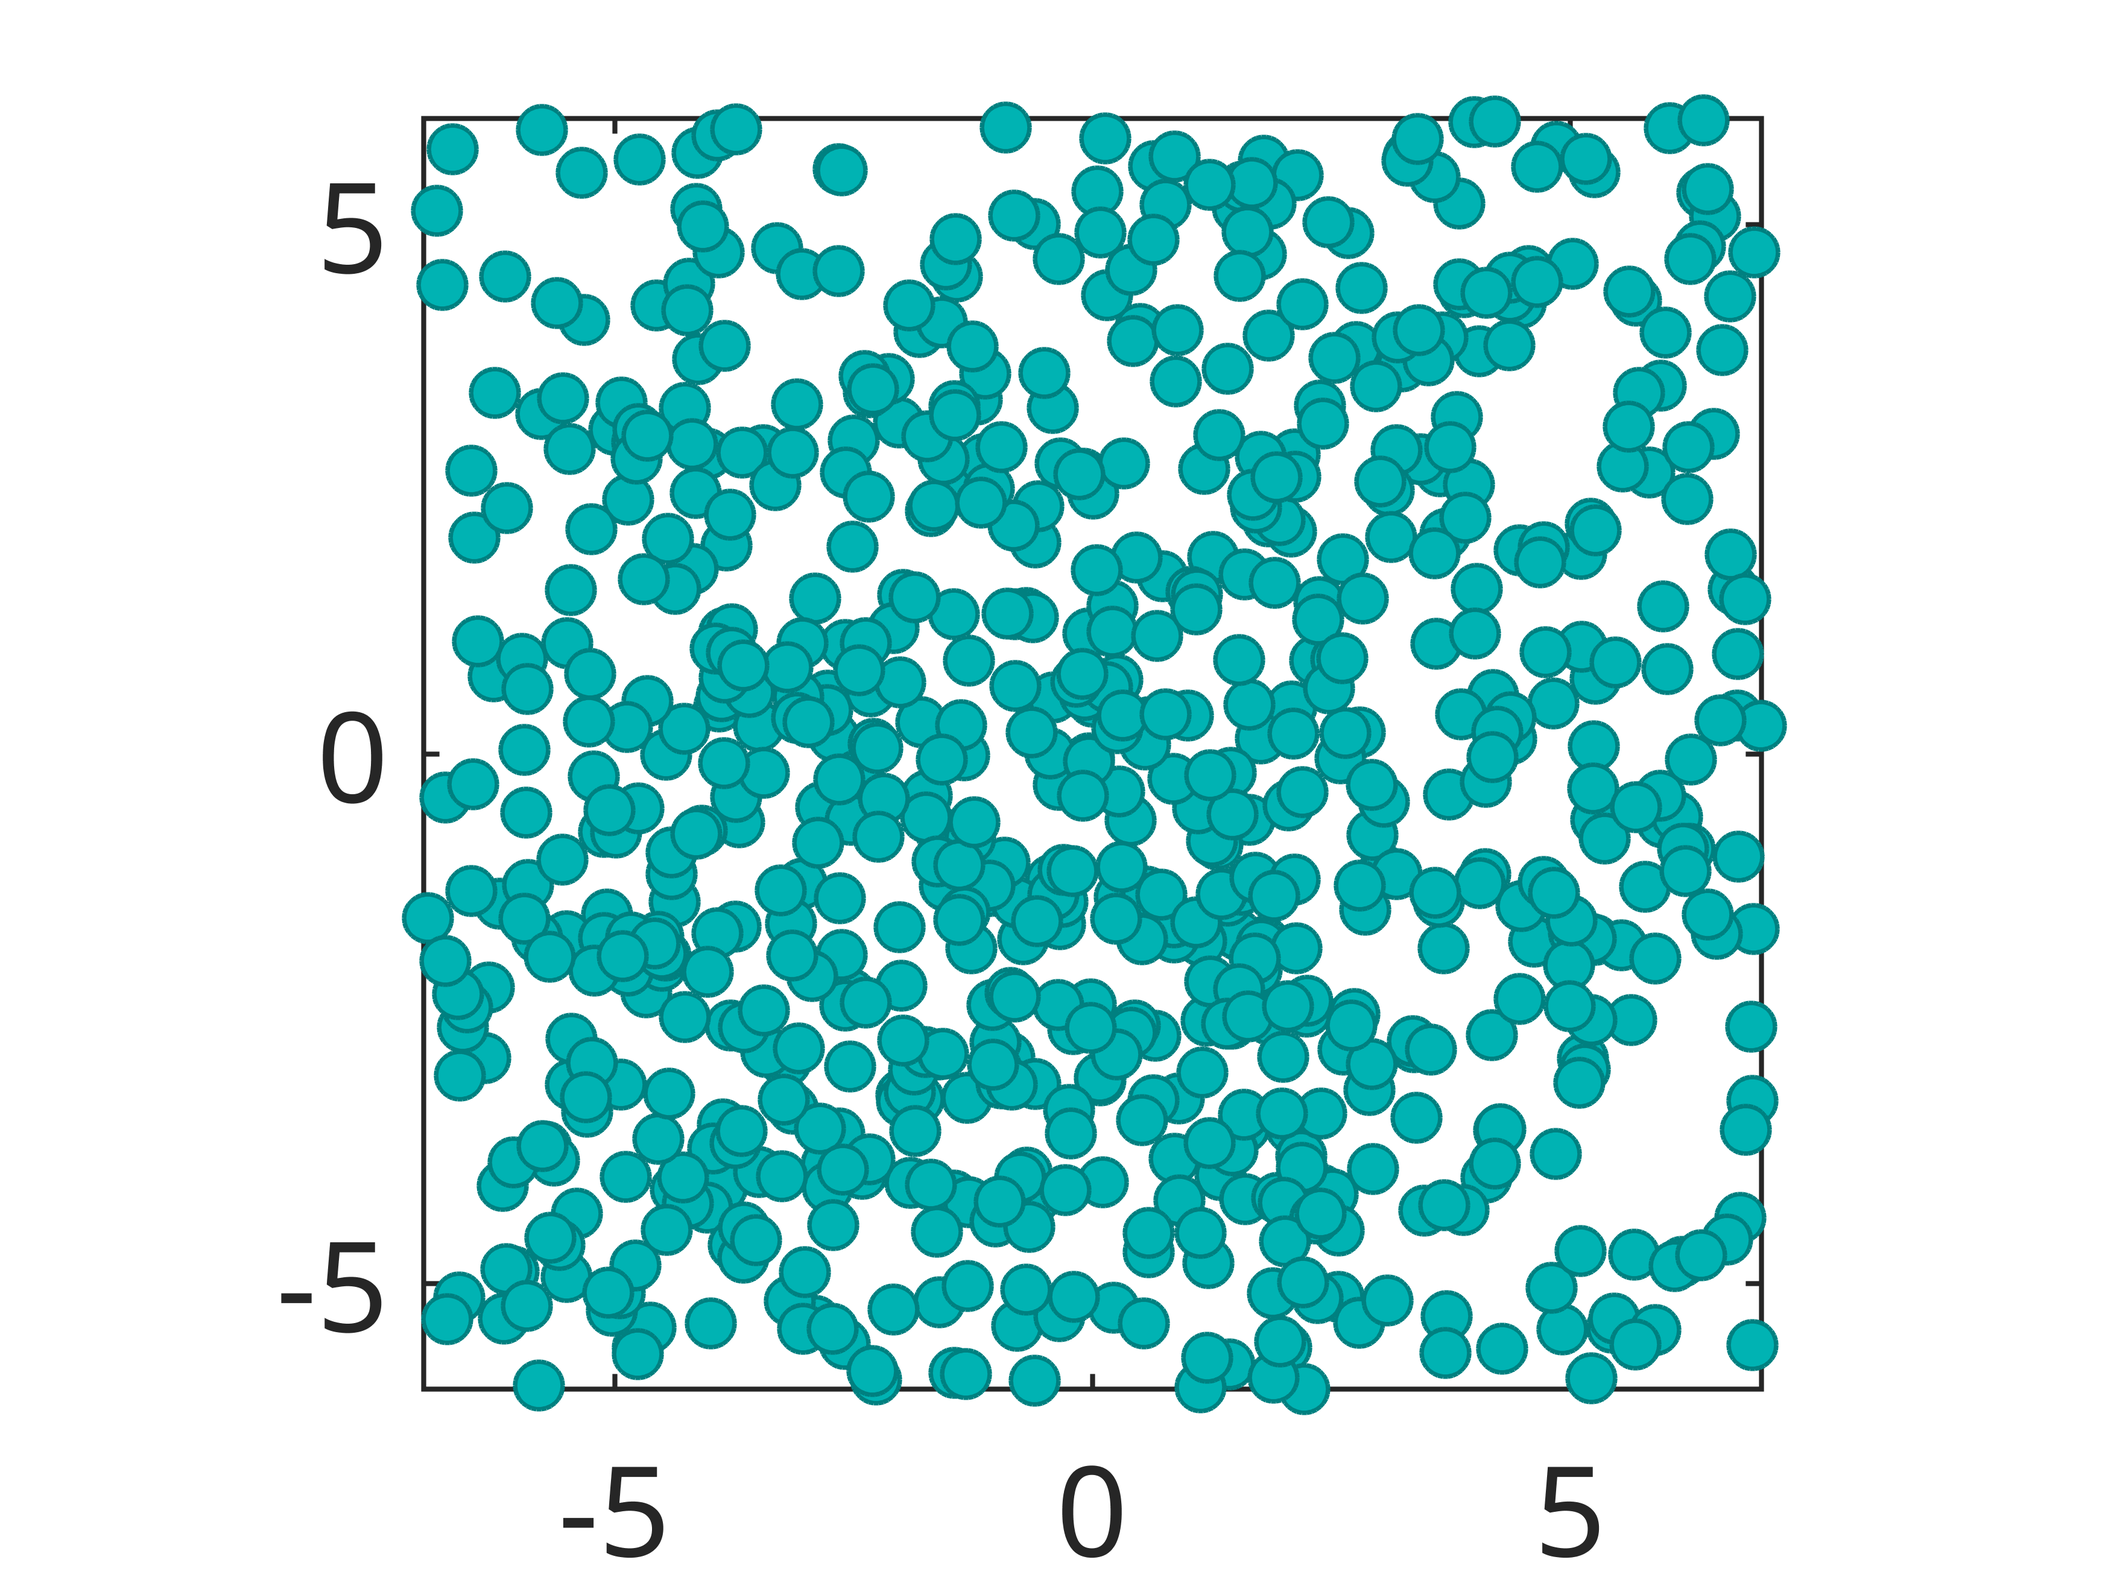
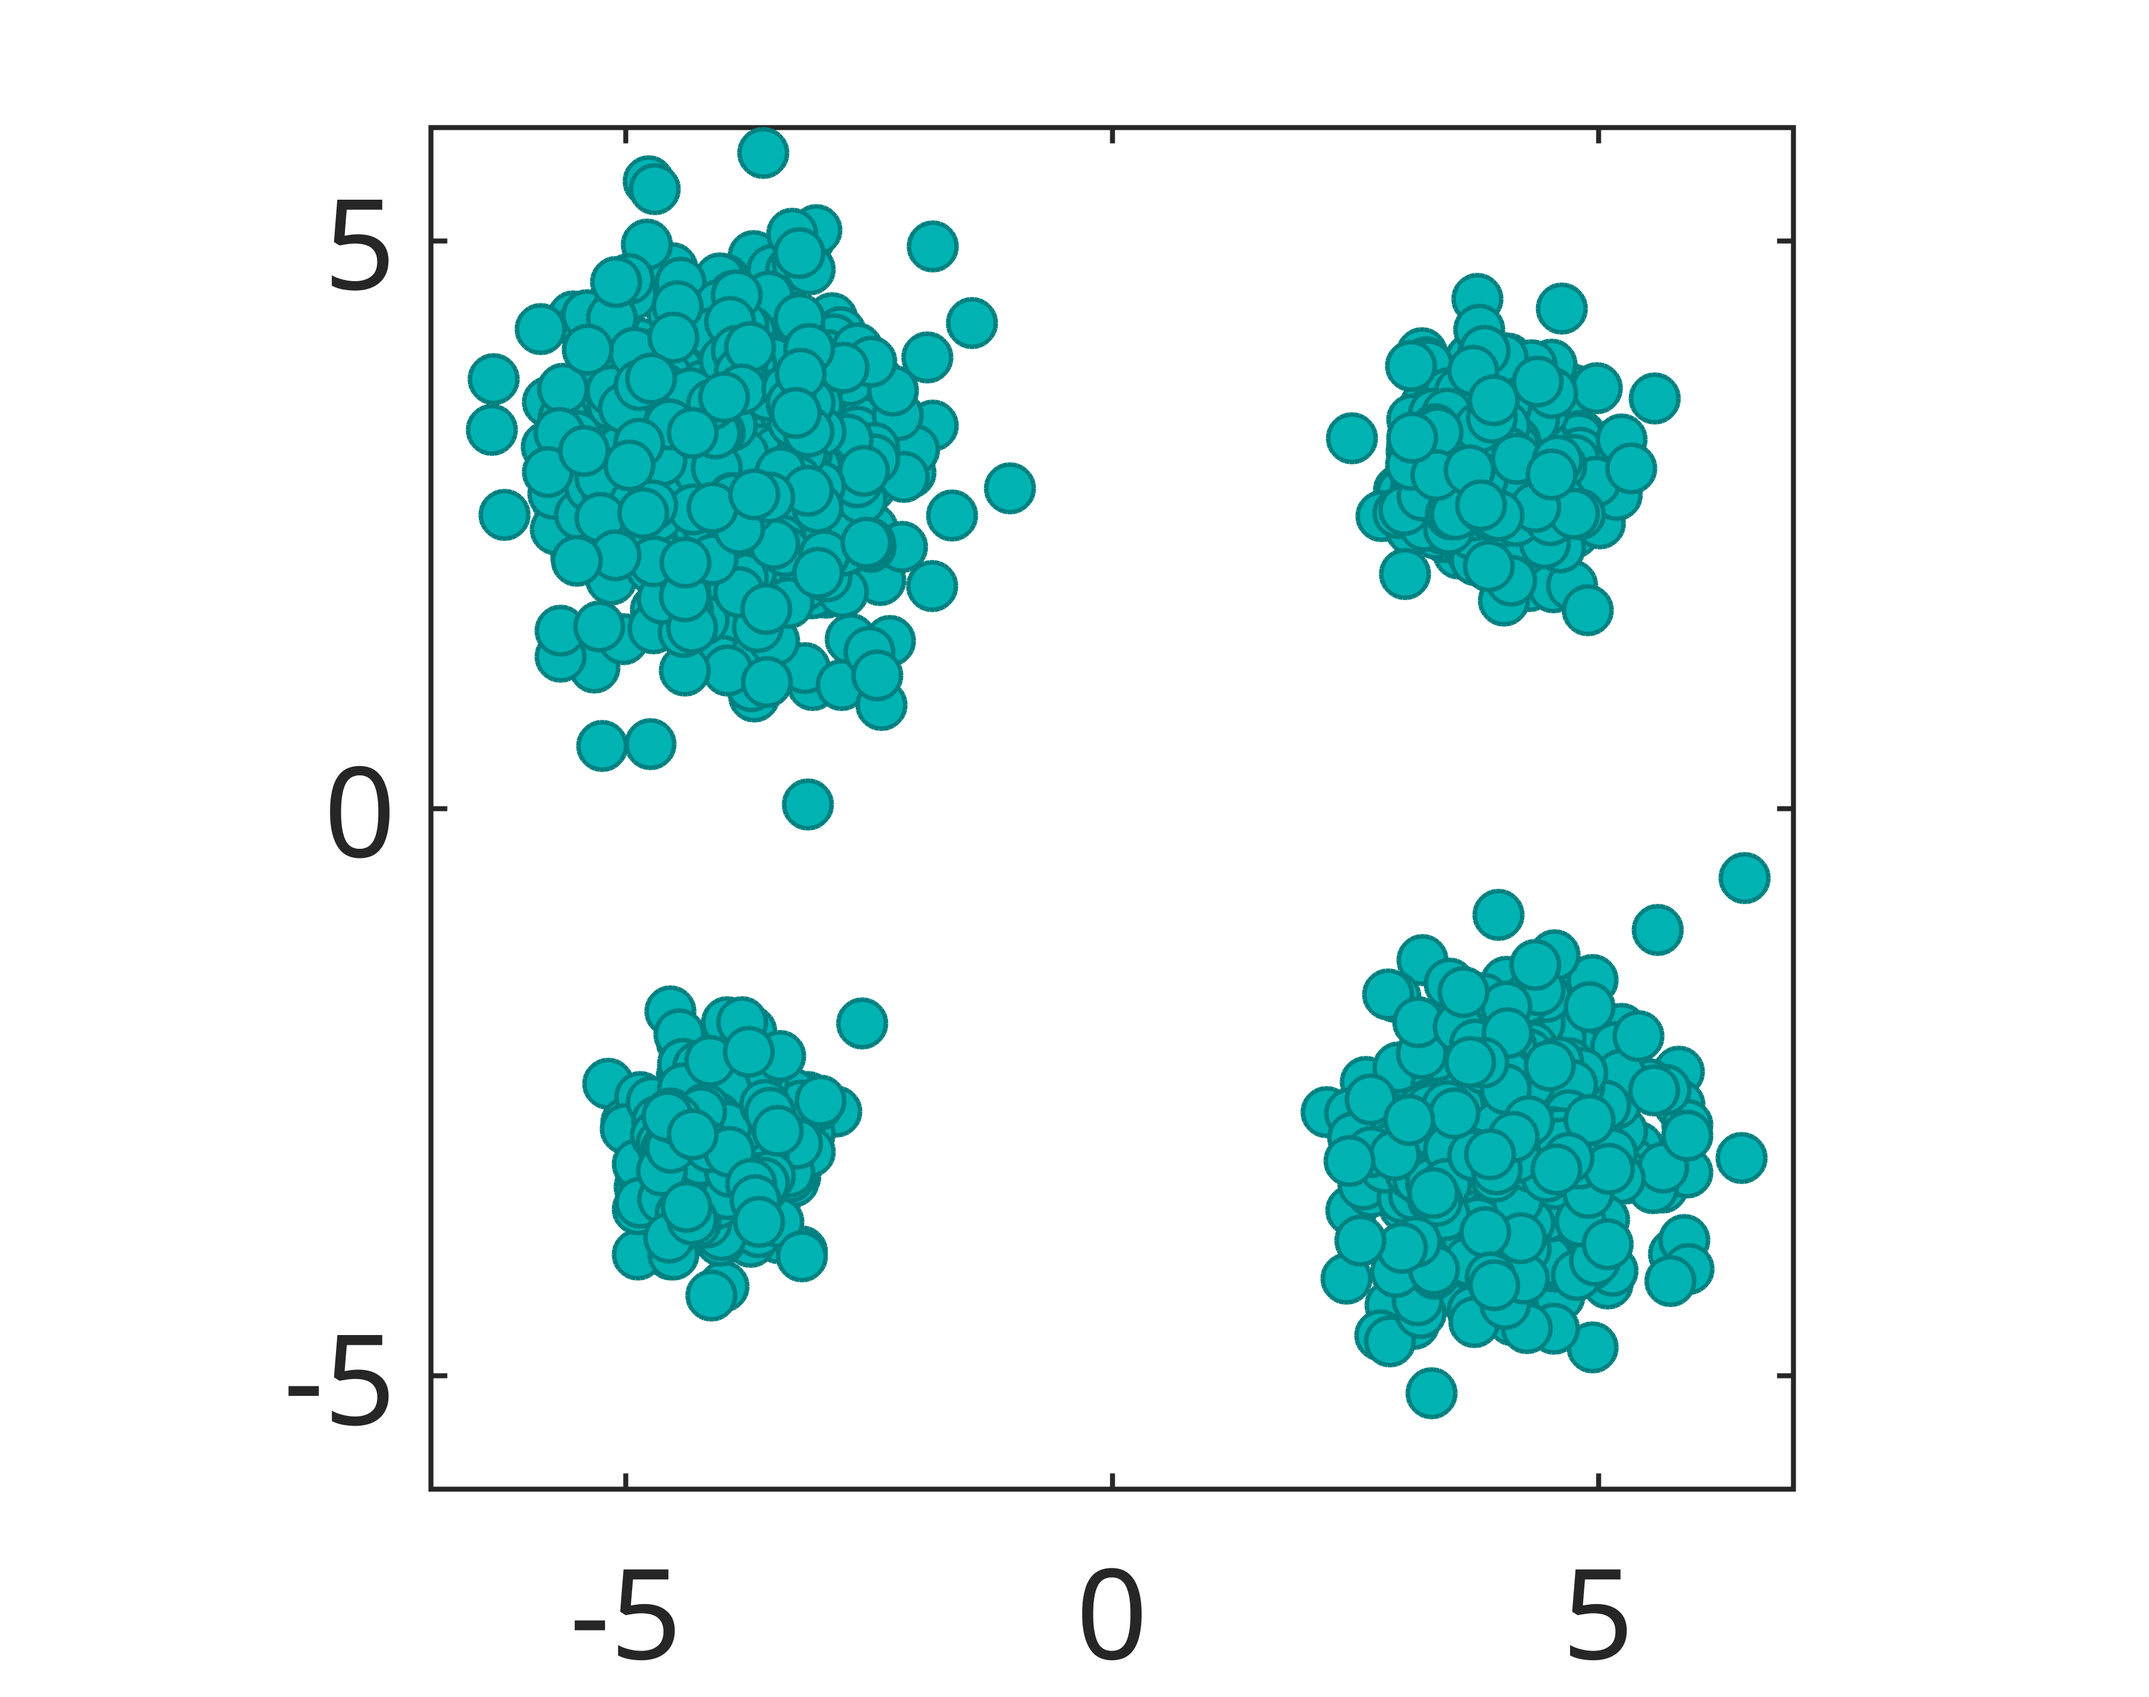
Update New

diff --git a/Reinforcement Based Clustering/MATLAB Codes/Model Free Setting/data_RLClustering_ModelFree.m b/Reinforcement Based Clustering/MATLAB Codes/Model Free Setting/data_RLClustering_ModelFree.m
@@ -1,4 +1,4 @@
-function [X,K,T_P,M,N] = data_RLClustering(idx)
+function [X,K,T_P,M,N] = data_RLClustering_ModelFree(idx)
     if idx == 1
         data = readtable('streaming_users_dataset.csv');
         X = [data.AvgWatchTime data.GenreDiversity data.PreferredGenreAction...
@@ -134,7 +134,7 @@ function [X,K,T_P,M,N] = data_RLClustering(idx)
         for j = 1 : K
             for k = 1 : K
                 if j ~= k
-                    %T_P(k,j,:) = 1/(K*(K-1));
+                    T_P(k,j,:) = 1/(K*(K-1));
                     %T_P(k,j,:) = 1/K;
                     %T_P(k,j,:) = 0;
                 end
@@ -252,10 +252,46 @@ function [X,K,T_P,M,N] = data_RLClustering(idx)
         %     %T_P(j,j,:) = (K-1)/K;
         %     T_P(j,j,:) = 1;
         % end
-        rng('default');
+        
         elseif idx == 8
-        data = readtable('streaming_users_from_movielens.csv');
-        X = [data.WatchTime data.GenresWatched data.TrendingContentPct...
+            rng('default');
+            data = readtable('streaming_users_from_movielens.csv');
+            X = [data.WatchTime data.GenresWatched data.TrendingContentPct...
+                data.BingeFreq data.CompletionRate data.SubscriptionTier data.LateNightWatchPct];
+            
+            K = 3; % clusters
+            [M, N] = size(X);
+            T_P = zeros(K, K, M);
+            
+            for j = 1:K  % prescribed cluster
+                for i = 1:M  % user index
+                    probs = zeros(1, K);
+                    for l = 1:K
+                        if l == j
+                            probs(l) = rand * 0.3 + 0.7; % strong preference for own cluster (0.7–1.0)
+                        else
+                            probs(l) = rand * 0.1;       % small probability for others (0–0.1)
+                        end
+                    end
+                    probs = probs / sum(probs);  % normalize
+                    T_P(:, j, i) = probs(:);
+                end
+            end
+        % for j = 1 : K
+        %     for k = 1 : K
+        %         if j ~= k
+        %             %T_P(k,j,:) = 1/(K*(K-1));
+        %             T_P(k,j,:) = 0;
+        %         end
+        %     end
+        %     %T_P(j,j,:) = (K-1)/K;
+        %     T_P(j,j,:) = 1;
+        % end
+
+    elseif idx == 9
+        rng('default');
+        data = readtable('/home/amber-srivastava/OneDrive/Research/RL Clustering/Dataset/ml-20m/movielens20m_streaming_user_features.csv');
+        X = [data.WatchTimeHours data.GenresWatched data.TrendingContentPct...
             data.BingeFreq data.CompletionRate data.SubscriptionTier data.LateNightWatchPct];
         
         K = 3; % clusters
@@ -286,30 +322,6 @@ function [X,K,T_P,M,N] = data_RLClustering(idx)
         %     %T_P(j,j,:) = (K-1)/K;
         %     T_P(j,j,:) = 1;
         % end
-        elseif idx == 9
-        rng('default');
-        data = readtable('/home/amber-srivastava/OneDrive/Research/RL Clustering/Dataset/ml-20m/movielens20m_streaming_user_features.csv');
-        X = [data.WatchTimeHours data.GenresWatched data.TrendingContentPct...
-            data.BingeFreq data.CompletionRate data.SubscriptionTier data.LateNightWatchPct];
-        
-        K = 3; % clusters
-        [M, N] = size(X);
-        T_P = zeros(K, K, M);
-        
-        for j = 1:K  % prescribed cluster
-            for i = 1:M  % user index
-                probs = zeros(1, K);
-                for l = 1:K
-                    if l == j
-                        probs(l) = rand * 0.3 + 0.7; % strong preference for own cluster (0.7–1.0)
-                    else
-                        probs(l) = rand * 0.1;       % small probability for others (0–0.1)
-                    end
-                end
-                probs = probs / sum(probs);  % normalize
-                T_P(:, j, i) = probs(:);
-            end
-        end
     end
 
 

diff --git a/Reinforcement Based Clustering/MATLAB Codes/Model Free Setting/Model_FreeRL_Clustering.m b/Reinforcement Based Clustering/MATLAB Codes/Model Free Setting/Model_FreeRL_Clustering.m
@@ -1,0 +1,89 @@
+% Reinforcement‑Based Clustering (practical MATLAB version)
+% Inputs:
+%   X         : M x N data matrix
+%   K         : number of clusters
+%   eps       : epsilon-greedy policy
+
+% Outputs:
+%   P         : M x K assignment probabilities, rows sum to 1
+%   Y         : K x N cluster centers
+
+% ------------------ initialization -------------------
+close all; clc; 
+idx = 4; [X,K,T_P,M,N] = data_RLClustering_ModelFree(idx); 
+[X, ~, ~] = zscore(X); 
+alp = 1; count = ones(length(X),K); eps = 0.1;
+[X, mu, sigma] = zscore(X); Q = zeros(length(X),K); 
+Qbar = zeros(length(X),K); indx = 1;
+
+Tmin = 0.001; alpha = 0.99; PERTURB = 0.0001; STOP = 1e-2;
+T = 5; Px = (1/M)*ones(M,1); Y = load('Ydata_idx4.mat'); %Y = repmat(Px'*X, [K,1]);
+MaxOuter = 5000; P = 1/K*ones(M,K);
+
+Memory.i = []; Memory.j = []; Memory.k = [];
+
+% ------------------ annealing loop over beta ----------
+
+while T > Tmin
+    
+    % ===== "policy" loop: update Pi given current Y =====
+    for t = 1 : MaxOuter
+        
+        values = 1:length(X);
+        if indx <= length(X)
+            i = indx;
+        else
+            indx = 1;
+            i = indx;
+        end
+        indx = indx + 1;
+        
+        % epsilon-greedy policy 
+        if rand < eps
+            j = randi([1, K]);
+        else
+            values = 1 : K; j = randsample(values, 1, true, P(i,:));
+        end
+        [k, dist] = environment_dataClustering(i,j,T_P,K,X,Y);
+        count(i,j) = count(i,j) + 1;
+        alpha = 1/count(i,j);
+        Q(i,j) = Q(i,j) + alpha*(dist - Q(i,j));
+
+        Qbar(i,:) = Q(i,:) - min(Q(i,:));
+        P(i,:) = exp(-(1/T)*Qbar(i,:));
+        P(i,:) = P(i,:)./(repmat(sum(P(i,:)),[1 K]));
+        
+        if length(Memory.i) < 10000
+            Memory.i = [Memory.i i]; 
+            Memory.j = [Memory.j j]; 
+            Memory.k = [Memory.k k];
+        else
+            Memory.i(1) = []; Memory.j(1) = []; Memory.k(1) = [];
+            Memory.i = [Memory.i i]; 
+            Memory.j = [Memory.j j]; 
+            Memory.k = [Memory.k k];
+        end
+
+    end
+    disp(T);
+    T = T*0.98;
+end
+close all;
+scatter(X(:,1),X(:,2),90,'filled','MarkerEdgeColor',[0 0.5 0.5],...
+'MarkerFaceColor',[0 0.7 0.7],'LineWidth',1.5);
+xlim([-2 2]); ylim([-2 2]); axis square; box on;
+set(gca, 'FontSize', 25); set(gca, 'LineWidth', 1.0);
+xticks([-5 0 5]); yticks([-5 0 5]);
+hold on; scatter(Y.Y(:,1),Y.Y(:,2),500,'p','MarkerEdgeColor', 'k', 'MarkerFaceColor', 'r');
+
+P_idx = round(P);
+idx = cell(K,1);
+for k = 1 : K
+    idx{k} = find(P(:,k)==1);
+    col = rand(1,3);
+    scatter(X(idx{k},1),X(idx{k},2),90,'filled','MarkerEdgeColor','k',...
+        'MarkerFaceColor',col,'LineWidth',0.25);
+    scatter(Y.Y(k,1),Y.Y(k,2),500,'p','MarkerEdgeColor', 'k', 'MarkerFaceColor', col, 'LineWidth',2);
+end
+
+

diff --git a/Reinforcement Based Clustering/MATLAB Codes/data_RLClustering.m b/Reinforcement Based Clustering/MATLAB Codes/data_RLClustering.m
@@ -134,13 +134,13 @@ function [X,K,T_P,M,N] = data_RLClustering(idx)
         for j = 1 : K
             for k = 1 : K
                 if j ~= k
-                    %T_P(k,j,:) = 1/(K*(K-1));
-                    T_P(k,j,:) = 1/K;
+                    T_P(k,j,:) = 1/(K*(K-1));
+                    %T_P(k,j,:) = 1/K;
                     %T_P(k,j,:) = 0;
                 end
             end
-            %T_P(j,j,:) = (K-1)/K;
-            T_P(j,j,:) = 1/K;
+            T_P(j,j,:) = (K-1)/K;
+            %T_P(j,j,:) = 1/K;
             %T_P(j,j,:) = 1;
         end
         scatter(X(:,1),X(:,2),90,'filled','MarkerEdgeColor',[0 0.5 0.5],...
@@ -286,6 +286,30 @@ function [X,K,T_P,M,N] = data_RLClustering(idx)
         %     %T_P(j,j,:) = (K-1)/K;
         %     T_P(j,j,:) = 1;
         % end
+        elseif idx == 9
+        rng('default');
+        data = readtable('/home/amber-srivastava/OneDrive/Research/RL Clustering/Dataset/ml-20m/movielens20m_streaming_user_features.csv');
+        X = [data.WatchTimeHours data.GenresWatched data.TrendingContentPct...
+            data.BingeFreq data.CompletionRate data.SubscriptionTier data.LateNightWatchPct];
+        
+        K = 3; % clusters
+        [M, N] = size(X);
+        T_P = zeros(K, K, M);
+        
+        for j = 1:K  % prescribed cluster
+            for i = 1:M  % user index
+                probs = zeros(1, K);
+                for l = 1:K
+                    if l == j
+                        probs(l) = rand * 0.3 + 0.7; % strong preference for own cluster (0.7–1.0)
+                    else
+                        probs(l) = rand * 0.1;       % small probability for others (0–0.1)
+                    end
+                end
+                probs = probs / sum(probs);  % normalize
+                T_P(:, j, i) = probs(:);
+            end
+        end
     end
 
 

diff --git a/Reinforcement Based Clustering/MATLAB Codes/PT_RLClustering.m b/Reinforcement Based Clustering/MATLAB Codes/PT_RLClustering.m
@@ -1,5 +1,5 @@
 %% This code implements the DA algorithm with p(k|j,i) transition prob.
-idx = 3;
+idx = 4;
 [X,K,T_P,M,N] = data_RLClustering(idx); close all;
 X_org = X;
 [X, mu, sigma] = zscore(X);
@@ -41,9 +41,9 @@ while T >= Tmin
         L_old = L;
     end
     %T_cr = critical_beta(X, Y, K, M, T_P, P, rho);
-    T_cr = critical_beta_NewDelta(X, Y, K, M, T_P, P, rho);
-    fprintf('%d %d \n',T,T_cr);
-    %disp(T);
+    %T_cr = critical_beta_NewDelta(X, Y, K, M, T_P, P, rho);
+    %fprintf('%d %d \n',T,T_cr);
+    disp(T);
     T = T*alpha;
     %scatter(X(:,1),X(:,2),'.'); hold on;
     %scatter(Y(:,1),Y(:,2),'d','filled'); title(T); hold off;
@@ -51,14 +51,14 @@ while T >= Tmin
     %writeVideo(v, frame);  
 end
 %close(v);
-Y = Y.*sigma + mu; X = X.*sigma + mu;
+%Y = Y.*sigma + mu; X = X.*sigma + mu;
 
-scatter(X(:,1),X(:,2),90,'filled','MarkerEdgeColor',[0 0.5 0.5],...
-           'MarkerFaceColor',[0 0.7 0.7],'LineWidth',1.5); 
-xlim([-7 7]); ylim([-6 6]); axis square; box on; 
-set(gca, 'FontSize', 25); set(gca, 'LineWidth', 1.0);
-xticks([-5 0 5]); yticks([-5 0 5]);
-hold on; scatter(Y(:,1),Y(:,2),500,'p','MarkerEdgeColor', 'k', 'MarkerFaceColor', 'r');hold off;
+% scatter(X(:,1),X(:,2),90,'filled','MarkerEdgeColor',[0 0.5 0.5],...
+%            'MarkerFaceColor',[0 0.7 0.7],'LineWidth',1.5); 
+% xlim([-7 7]); ylim([-6 6]); axis square; box on; 
+% set(gca, 'FontSize', 25); set(gca, 'LineWidth', 1.0);
+% xticks([-5 0 5]); yticks([-5 0 5]);
+% hold on; scatter(Y(:,1),Y(:,2),500,'p','MarkerEdgeColor', 'k', 'MarkerFaceColor', 'r');hold off;
 %savefig('Setup_2D.fig');
 %print(gcf, 'Setup_2D.png', '-dpng', '-r600');
 % cluster_labels = zeros(length(X),1);

diff --git a/Reinforcement Based Clustering/MATLAB Codes/Model Free Setting/environment_dataClustering.m b/Reinforcement Based Clustering/MATLAB Codes/Model Free Setting/environment_dataClustering.m
@@ -1,0 +1,8 @@
+function [k, dist] = environment_dataClustering(i,j,T_P,K,X,Y)
+   
+    values = linspace(1,K,K);
+    p = T_P(:,j,i);
+    k = randsample(values, 1, true, p);
+    dist = norm(X(i,:)-Y.Y(k,:))^2;
+
+end
